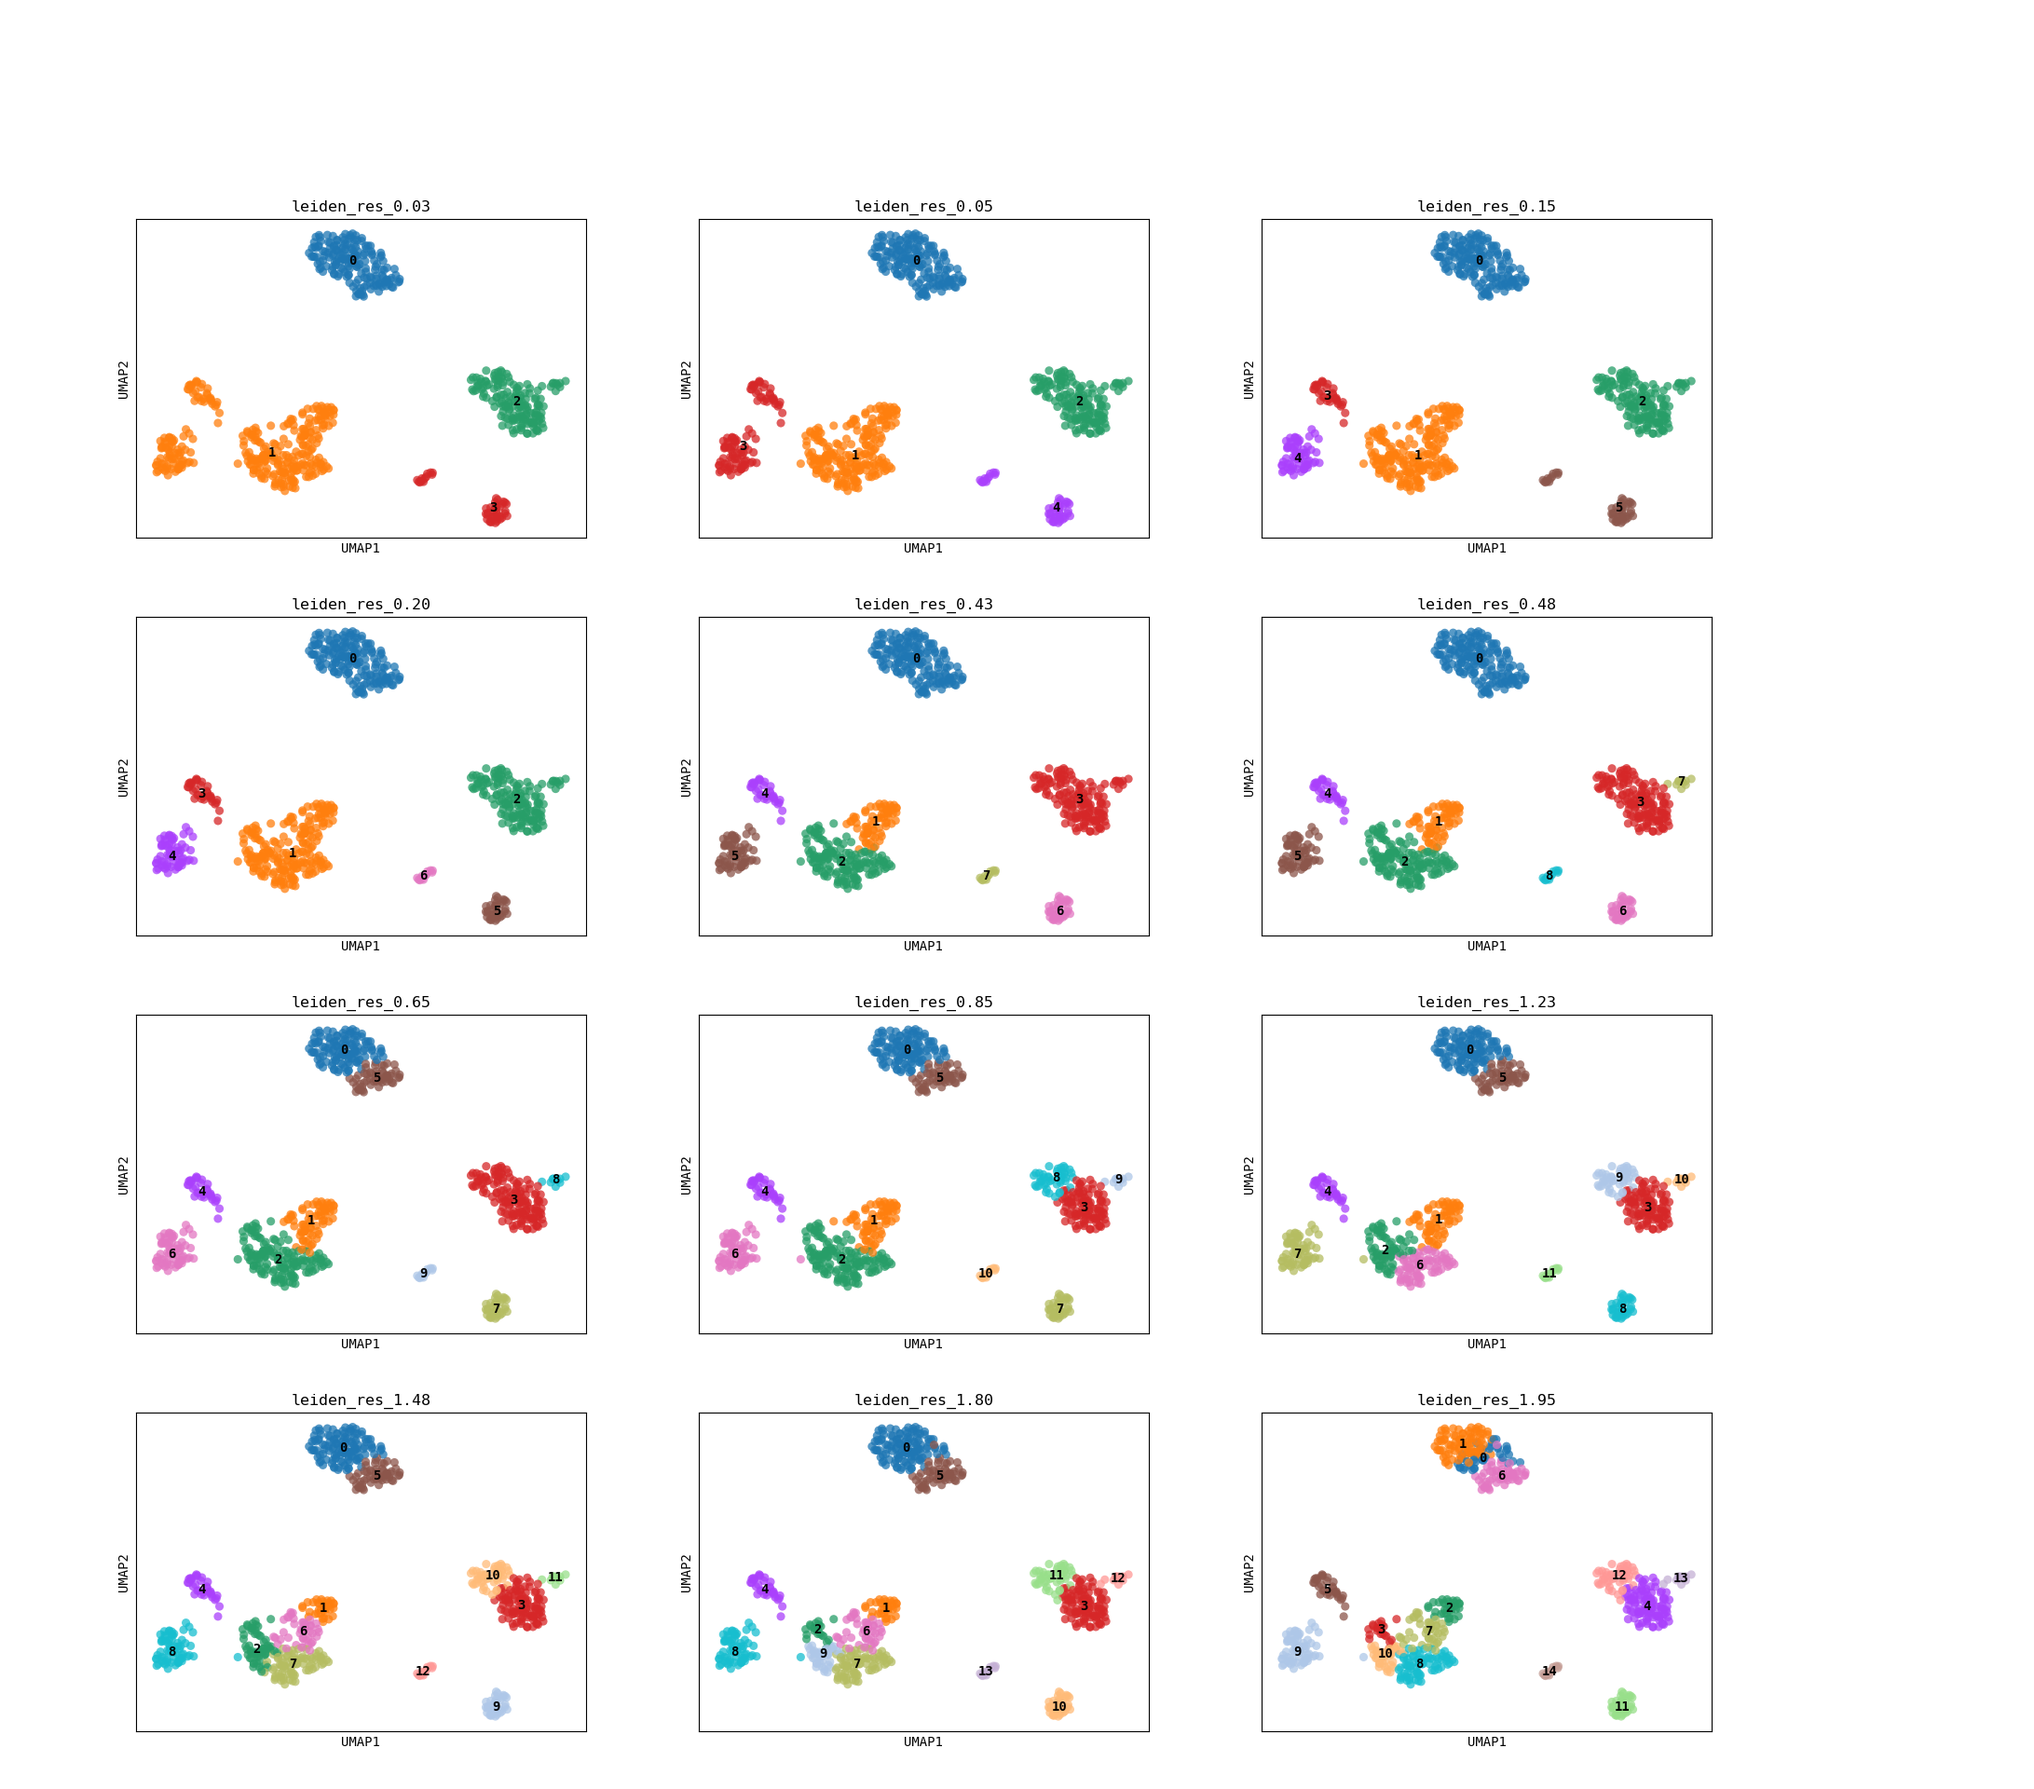
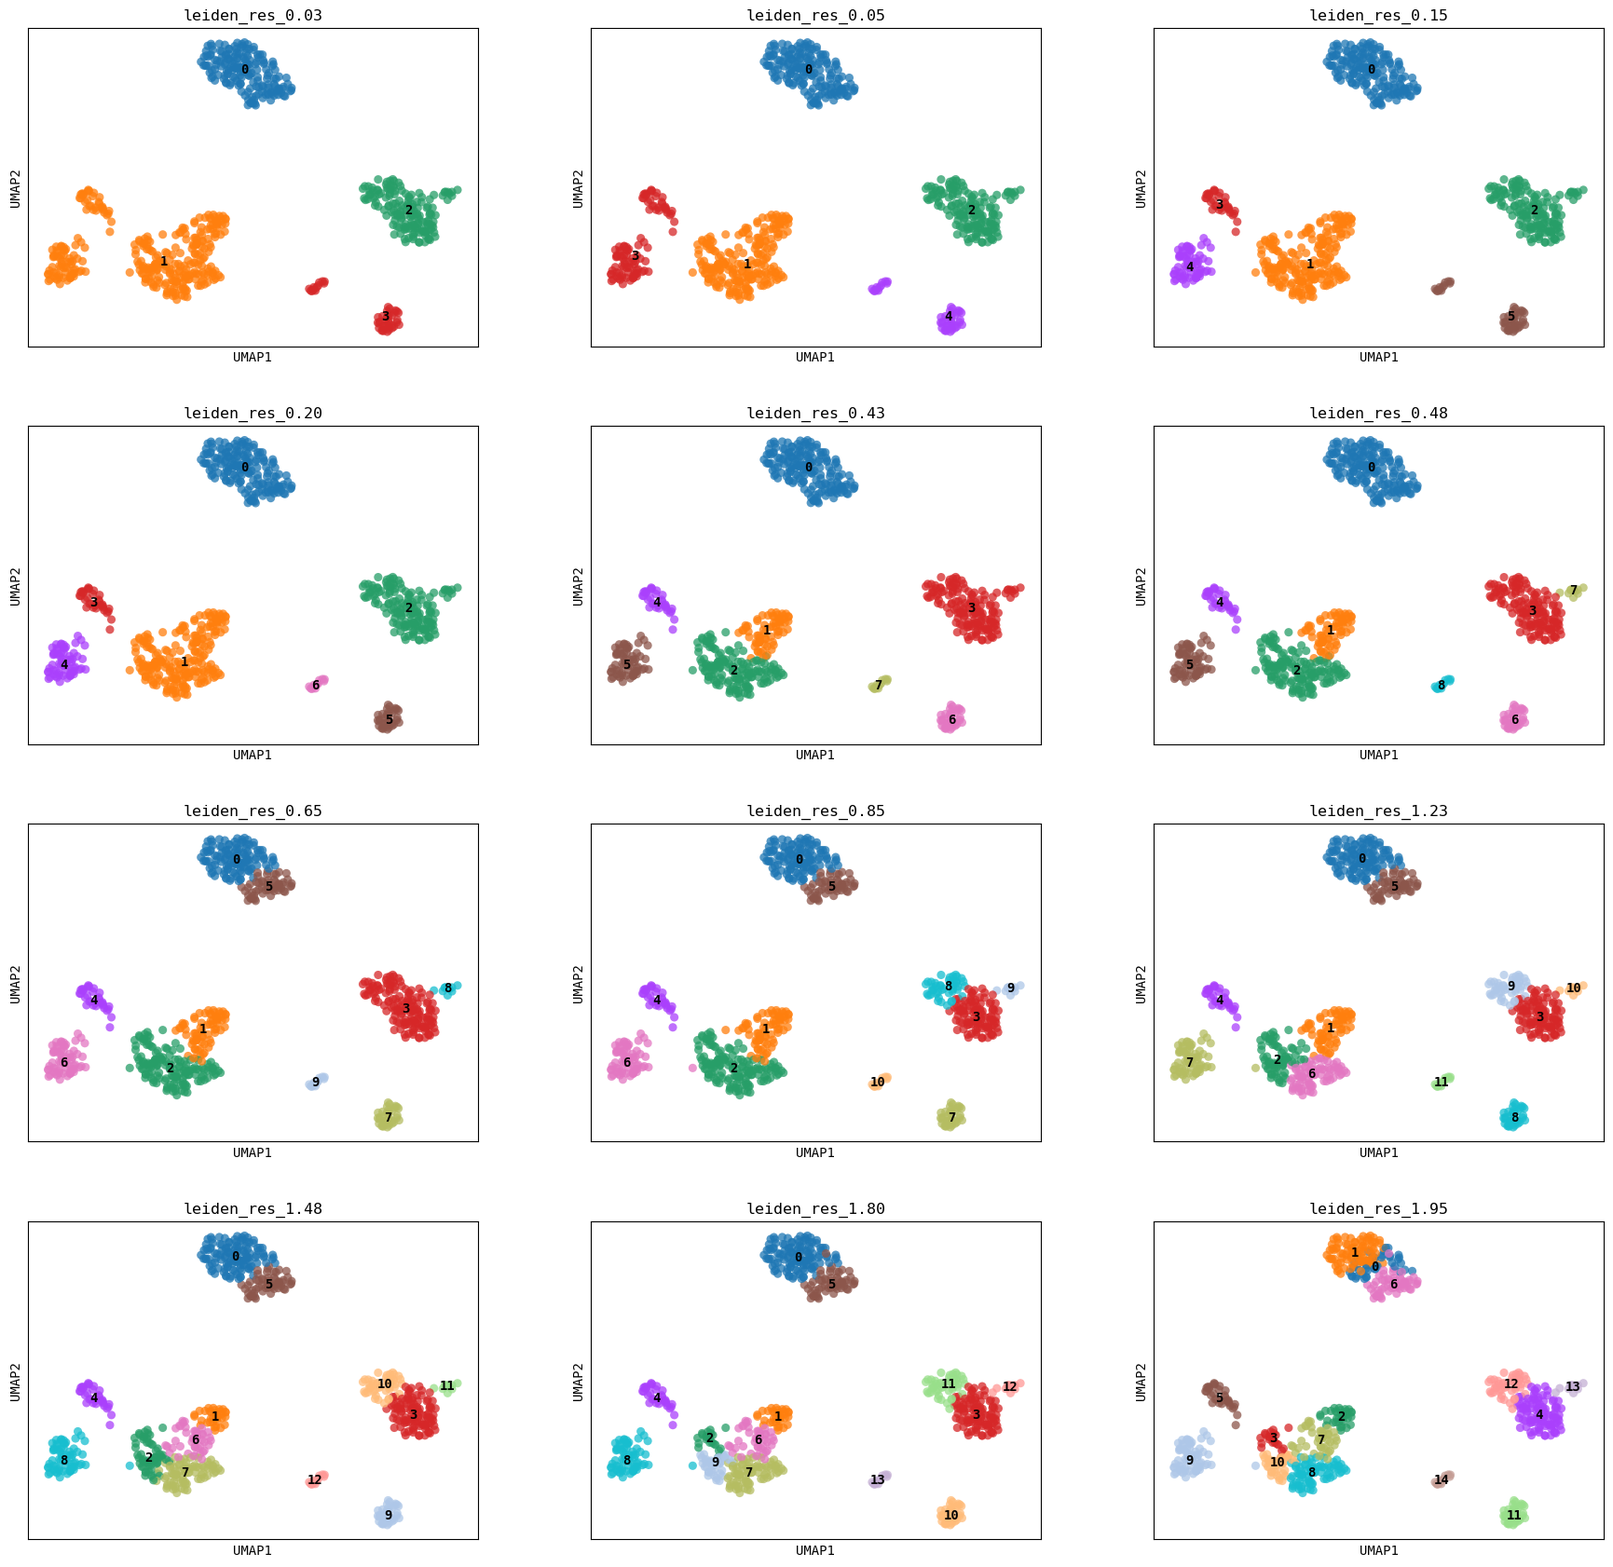
update tutorial output figures x2

diff --git a/imgs/tutorial.py b/imgs/tutorial.py
@@ -49,15 +49,15 @@ fig, ax = clustree(
 fig.savefig("clustree_default.png")
 
 # plot the UMAPs for each resolution
+os.makedirs("figures/umap", exist_ok=True)
 fig = sc.pl.umap(
     adata,
     color=tree_columns,
     legend_loc="on data",
     alpha=0.75,
     ncols=3,
-    return_fig=True,
+    save="/../../umaps_default.png",
 )
-fig.savefig("umaps_default.png")
 
 # build tree & plotting (updates adata.obs)
 fig, ax = clustree(
@@ -76,18 +76,19 @@ fig = sc.pl.umap(
     legend_loc="on data",
     alpha=0.75,
     ncols=3,
-    return_fig=True,
+    save="/../../umaps_recolored.png",
 )
-fig.savefig("umaps_recolored.png")
 
 # plot the top genes per cluster for each resolution
 warnings.simplefilter(action="ignore", category=pd.errors.PerformanceWarning)
 os.makedirs("figures/heatmap", exist_ok=True)
+os.makedirs("figures/dotplot_", exist_ok=True)
 for i, column in enumerate([top_low, top_medium, top_high]):
     sc.tl.rank_genes_groups(adata, column, n_genes=5)
     sc.tl.dendrogram(adata, column)
     sc.pl.rank_genes_groups_heatmap(
         adata, show_gene_labels=True, save=f"/../../top_genes_heatmap_{i}.png"
     )
-    fig = sc.pl.rank_genes_groups_dotplot(adata, title=column, return_fig=True)
-    fig.savefig(f"top_genes_dotplot_{i}.png")
+    sc.pl.rank_genes_groups_dotplot(
+        adata, title=column, save=f"/../../top_genes_dotplot_{i}.png"
+    )
